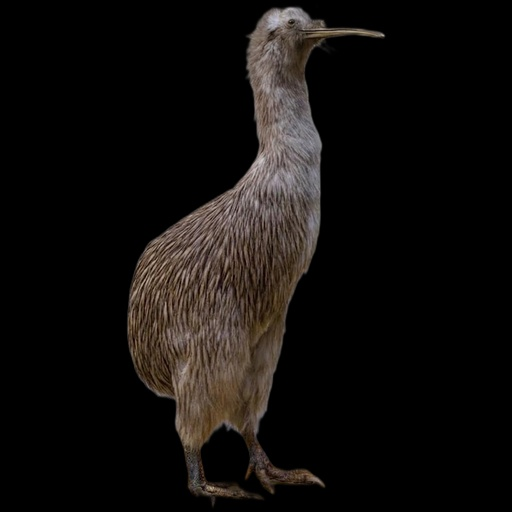
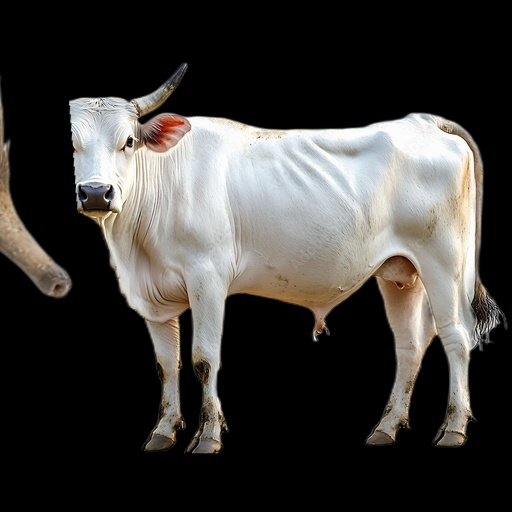
Ufficiale

diff --git a/OsteoGen_2/warp_dinosauro.py b/OsteoGen_2/warp_dinosauro.py
@@ -6,38 +6,47 @@ import matplotlib.pyplot as plt
 os.environ['KMP_DUPLICATE_LIB_OK'] = 'True'
 
 
-def applica_texture_parte(img_src, canvas_dst, punti_src_512, punti_dst_512):
-    # 0. FILTRO PUNTI MANCANTI E ALLINEAMENTO
-    valid_src = []
-    valid_dst = []
+def applica_texture_parte(img_src, canvas_dst, punti_src_raw, punti_dst_raw):
+    # 0. FILTRO PUNTI MANCANTI
+    punti_src_puliti = []
+    punti_dst_puliti = []
     
-    for p_src, p_dst in zip(punti_src_512, punti_dst_512):
+    for p_src, p_dst in zip(punti_src_raw, punti_dst_raw):
         if p_src is not None and p_dst is not None:
-            valid_src.append(p_src)
-            valid_dst.append(p_dst)
+            punti_src_puliti.append(p_src)
+            punti_dst_puliti.append(p_dst)
             
-    # OpenCV richiede almeno 3 punti non allineati per una trasformazione affine completa
-    if len(valid_src) < 3:
+    if len(punti_src_puliti) < 2:
         return canvas_dst
 
-    # 1. RIPROPORZIONAMENTO COORDINATE (Scaling)
-    h_src, w_src = img_src.shape[:2]
+    # 1. ACQUISIZIONE DIRETTA COORDINATE
     h_dst, w_dst = canvas_dst.shape[:2]
+    h_src, w_src = img_src.shape[:2]
     
-    punti_src = np.array([(int(x * w_src / 512), int(y * h_src / 512)) for x, y in valid_src], dtype=np.float32)
-    punti_dst = np.array([(int(x * w_dst / 512), int(y * h_dst / 512)) for x, y in valid_dst], dtype=np.float32)
-    
+    punti_src = np.array(punti_src_puliti, dtype=np.float32)
+    punti_dst = np.array(punti_dst_puliti, dtype=np.float32)
     punti_src_int = np.int32(punti_src)
     
-    # 2. ISOLAMENTO ANATOMICO (Convex Hull)
+    # 2. ISOLAMENTO ANATOMICO (Maschera Dinamica)
     mask_src = np.zeros((h_src, w_src), dtype=np.uint8)
-    hull_src = cv2.convexHull(punti_src_int)
-    cv2.fillConvexPoly(mask_src, hull_src, 255)
+    
+    if len(punti_src_int) >= 3:
+        hull_src = cv2.convexHull(punti_src_int)
+        cv2.fillConvexPoly(mask_src, hull_src, 255)
+    else:
+        # Calcola uno spessore dinamico (es. 15% della lunghezza della coda)
+        pt1 = tuple(punti_src_int[0])
+        pt2 = tuple(punti_src_int[1])
+        distanza = np.linalg.norm(punti_src[0] - punti_src[1])
+        spessore_dinamico = max(5, int(distanza * 0.15))
+        cv2.line(mask_src, pt1, pt2, 255, thickness=spessore_dinamico) 
     
     texture_isolata = cv2.bitwise_and(img_src, img_src, mask=mask_src)
     
-    # 3. DEFORMAZIONE SPAZIALE (Warping)
-    matrix, inliers = cv2.estimateAffine2D(punti_src, punti_dst)
+    # 3. DEFORMAZIONE SPAZIALE (Warping Rigido Forzato)
+    # Rimuoviamo estimateAffine2D per impedire lo stretching infinito.
+    # estimateAffinePartial2D esegue SOLO rotazione, scala e traslazione.
+    matrix, inliers = cv2.estimateAffinePartial2D(punti_src, punti_dst)
     
     if matrix is None:
         return canvas_dst
@@ -46,20 +55,22 @@ def applica_texture_parte(img_src, canvas_dst, punti_src_512, punti_dst_512):
                                     flags=cv2.INTER_LINEAR, borderMode=cv2.BORDER_CONSTANT)
     mask_warped = cv2.warpAffine(mask_src, matrix, (w_dst, h_dst), 
                                  flags=cv2.INTER_LINEAR, borderMode=cv2.BORDER_CONSTANT)
+    
     # 4. FUSIONE (Blending)
     mask_warped_3c = cv2.cvtColor(mask_warped, cv2.COLOR_GRAY2BGR) / 255.0
     canvas_aggiornato = (texture_warped * mask_warped_3c + canvas_dst * (1.0 - mask_warped_3c)).astype(np.uint8)
     
     return canvas_aggiornato
 
-def genera_chimera(match_dict, db_json_path, trex_coords, output_size=(512, 512)):
-    # Canvas nero vuoto per la chimera finale
-    canvas = np.zeros((output_size[1], output_size[0], 3), dtype=np.uint8)
+def genera_chimera(match_dict, db_json_path, trex_coords, trex_path):
+    # Legge il file del target e crea un canvas dinamico basato sulle sue dimensioni reali
+    img_trex = cv2.imread(trex_path)
+    h_t, w_t = img_trex.shape[:2]
+    canvas = np.zeros((h_t, w_t, 3), dtype=np.uint8)
 
     with open(db_json_path, 'r') as f:
         db = json.load(f)
 
-    # Itera sulle parti anatomiche e sui match trovati
     for parte, nome_animale in match_dict.items():
         if nome_animale is None:
             continue
@@ -72,25 +83,19 @@ def genera_chimera(match_dict, db_json_path, trex_coords, output_size=(512, 512)
             continue
             
         img_animale = cv2.imread(img_path_y)
-        
-        # Recupera i nomi dei punti per questa specifica parte
         nomi_punti_parte = dati_animale["segmentazione"][parte.lower()]["punti"]
         
-        # Estrae le coordinate (x,y)
         punti_src = [dati_animale["coordinate_grezze"].get(p) for p in nomi_punti_parte]
         punti_dst = [trex_coords.get(p) for p in nomi_punti_parte]
         
-        # Deforma e fonde sul canvas
-        canvas = applica_texture_parte(canvas, img_animale, punti_src, punti_dst)
+        canvas = applica_texture_parte(img_animale, canvas, punti_src, punti_dst)
 
-    # Salvataggio automatico dell'immagine su disco (in formato BGR nativo di OpenCV)
     output_dir = r"C:\Users\alexc\Desktop\OsteoGen_2\outputs"
     os.makedirs(output_dir, exist_ok=True)
     output_file_path = os.path.join(output_dir, "trex_chimera_render.jpg")
     cv2.imwrite(output_file_path, canvas)
     print(f"Immagine salvata con successo in: {output_file_path}")
 
-    # Converte da BGR (OpenCV) a RGB per Matplotlib
     canvas_rgb = cv2.cvtColor(canvas, cv2.COLOR_BGR2RGB)
     
     plt.figure(figsize=(8, 8))
@@ -100,23 +105,22 @@ def genera_chimera(match_dict, db_json_path, trex_coords, output_size=(512, 512)
     plt.show()
 
 if __name__ == "__main__":
-    # INCOLLA QUI I RISULTATI DEL TUO SCRIPT PRECEDENTE
     match_trovati = {
-        "testa": "uomo.png",
+        "testa": "salamandra.png",
         "torso": "airone.png",
-        "arto_anteriore": "struzzo.png",
-        "arto_posteriore": "armadillo.png",
-        "coda": "kiwi.png"
+        "arto_anteriore": "scimpanze.png",
+        "arto_posteriore": "echidna.png",
+        "coda": "mucca.png"
     }
-    
-    # Eseguiamo l'inferenza al volo per riavere le coordinate esatte del T-Rex
     from inference import estrai_coordinate
-    trex_path = r"C:\Users\alexc\Desktop\OsteoGen_2\tests\t-rex.jpg"
-    pesi = r"C:\Users\alexc\Desktop\OsteoGen_2\training_outputs_2\Weights\best_keypoint_detector.pth"
-    db_path = r"C:\Users\alexc\Desktop\OsteoGen_2\data\processed\geometric_database.json"
+    
+    # ASSICURATI CHE QUESTO FILE SIA LO SCHELETRO DEL T-REX, NON LA FOTO DI UN KIWI
+    trex_path = r"C:\Users\alexc\Desktop\OsteoGen2.0\OsteoGen2.0\OsteoGen_2\tests\t-rex.jpg"
+    pesi = r"C:\Users\alexc\Desktop\OsteoGen2.0\OsteoGen2.0\OsteoGen_2\training_outputs_2\Weights\best_keypoint_detector.pth"
+    db_path = r"C:\Users\alexc\Desktop\OsteoGen2.0\OsteoGen2.0\OsteoGen_2\data\processed\geometric_database.json"
 
     print("Estrazione coordinate T-Rex...")
     coords_trex = estrai_coordinate(trex_path, pesi, threshold=0.02)
     
     print("Generazione render in corso...")
-    genera_chimera(match_trovati, db_path, coords_trex)
+    genera_chimera(match_trovati, db_path, coords_trex, trex_path)

diff --git a/OsteoGen_2/build_DB.py b/OsteoGen_2/build_DB.py
@@ -10,10 +10,10 @@ def calcola_distanza(p1, p2):
     return float(np.linalg.norm(np.array(p1) - np.array(p2)))
 
 def costruisci_database():
-    img_dir_x = r"C:\Users\alexc\Desktop\OsteoGen_2\data\processed\input_x"
-    img_dir_y = r"C:\Users\alexc\Desktop\OsteoGen_2\data\processed\target_y"
-    pesi_modello = r"C:\Users\alexc\Desktop\OsteoGen_2\training_outputs_2\Weights\best_keypoint_detector.pth"
-    out_json = r"C:\Users\alexc\Desktop\OsteoGen_2\data\processed\geometric_database.json"
+    img_dir_x = r"C:\Users\alexc\Desktop\OsteoGen2.0\OsteoGen2.0\OsteoGen_2\data\processed\input_x"
+    img_dir_y = r"C:\Users\alexc\Desktop\OsteoGen2.0\OsteoGen2.0\OsteoGen_2\data\processed\target_y"
+    pesi_modello = r"C:\Users\alexc\Desktop\OsteoGen2.0\OsteoGen2.0\OsteoGen_2\training_outputs_2\Weights\best_keypoint_detector.pth"
+    out_json = r"C:\Users\alexc\Desktop\OsteoGen2.0\OsteoGen2.0\OsteoGen_2\data\processed\geometric_database.json"
 
     immagini = [f for f in os.listdir(img_dir_x) if f.endswith(('.png', '.jpg'))]
     database = {}
